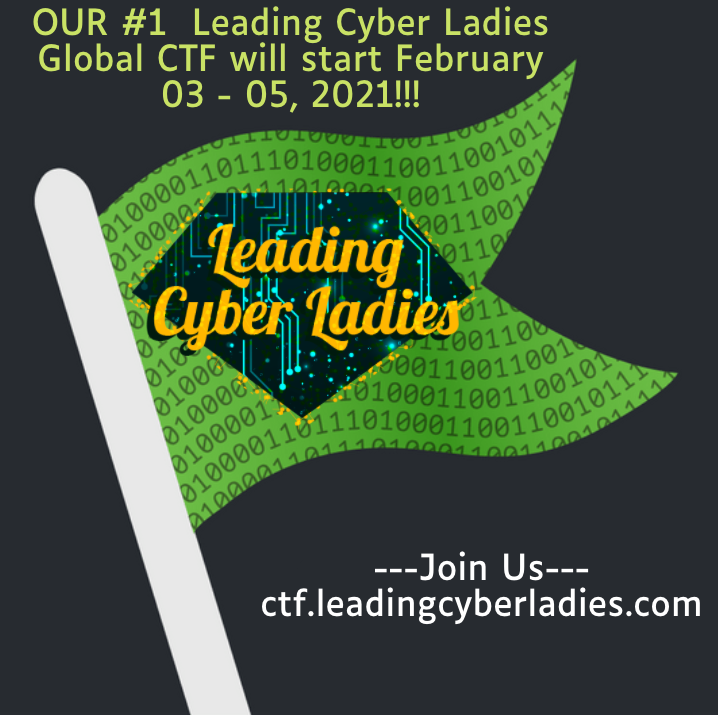
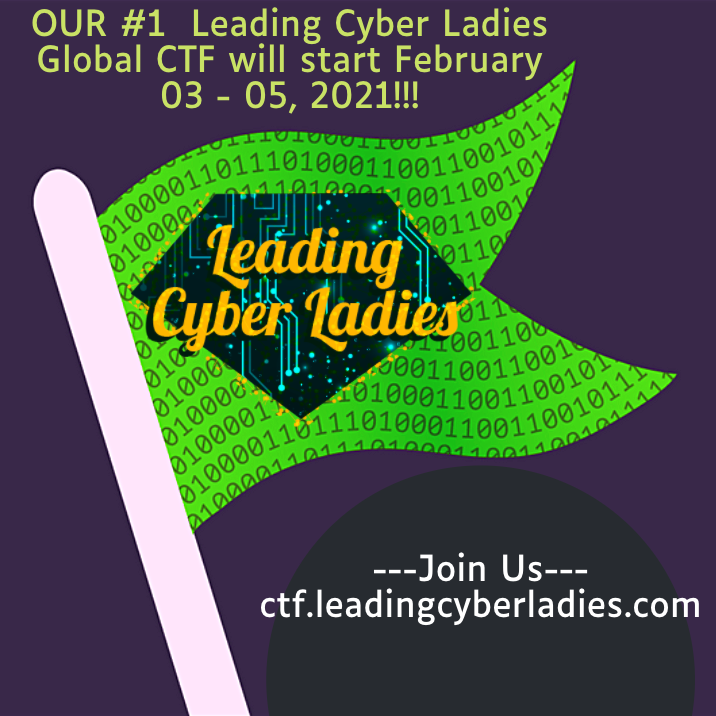
CTF

diff --git a/index.html b/index.html
@@ -18,9 +18,7 @@
 	<header id="header">
 		<div class="logo"><a href="index.html"><span></span></a></div>
 		<a href="#menu"><span>Menu</span></a>
-
 <script id="mcjs">!function(c,h,i,m,p){m=c.createElement(h),p=c.getElementsByTagName(h)[0],m.async=1,m.src=i,p.parentNode.insertBefore(m,p)}(document,"script","https://chimpstatic.com/mcjs-connected/js/users/998d0797a9ea7055a21e9267c/767be1087c7192ea71be42e71.js");</script>
-
 	</header>
 
 	<!-- Navigator -->
@@ -44,7 +42,8 @@
 
 
 		</section>
-		<section id="banner" class="bg-img" data-bg="banner5.jpg">
+	
+			<body style="background-color:#3b2a49;">
 			<div class="inner">
 
 				<header>
@@ -59,7 +58,7 @@
 					</style>
 					</head>
 					<body>
-					<img src="images/LCL-transparent.png" alt="logo" style="width:100%;">
+
 				</header>
 			</div>
 			<a href="#one" class="more">Learn More</a>

diff --git a/ctf.html b/ctf.html
@@ -12,6 +12,7 @@
 		<link rel="stylesheet" href="assets/css/main.css" />
 	</head>
 	<body class="subpage">
+		<body style="background-color:#3b2a49;">
 
 		<!-- Header -->
 			<header id="header" class="alt">
